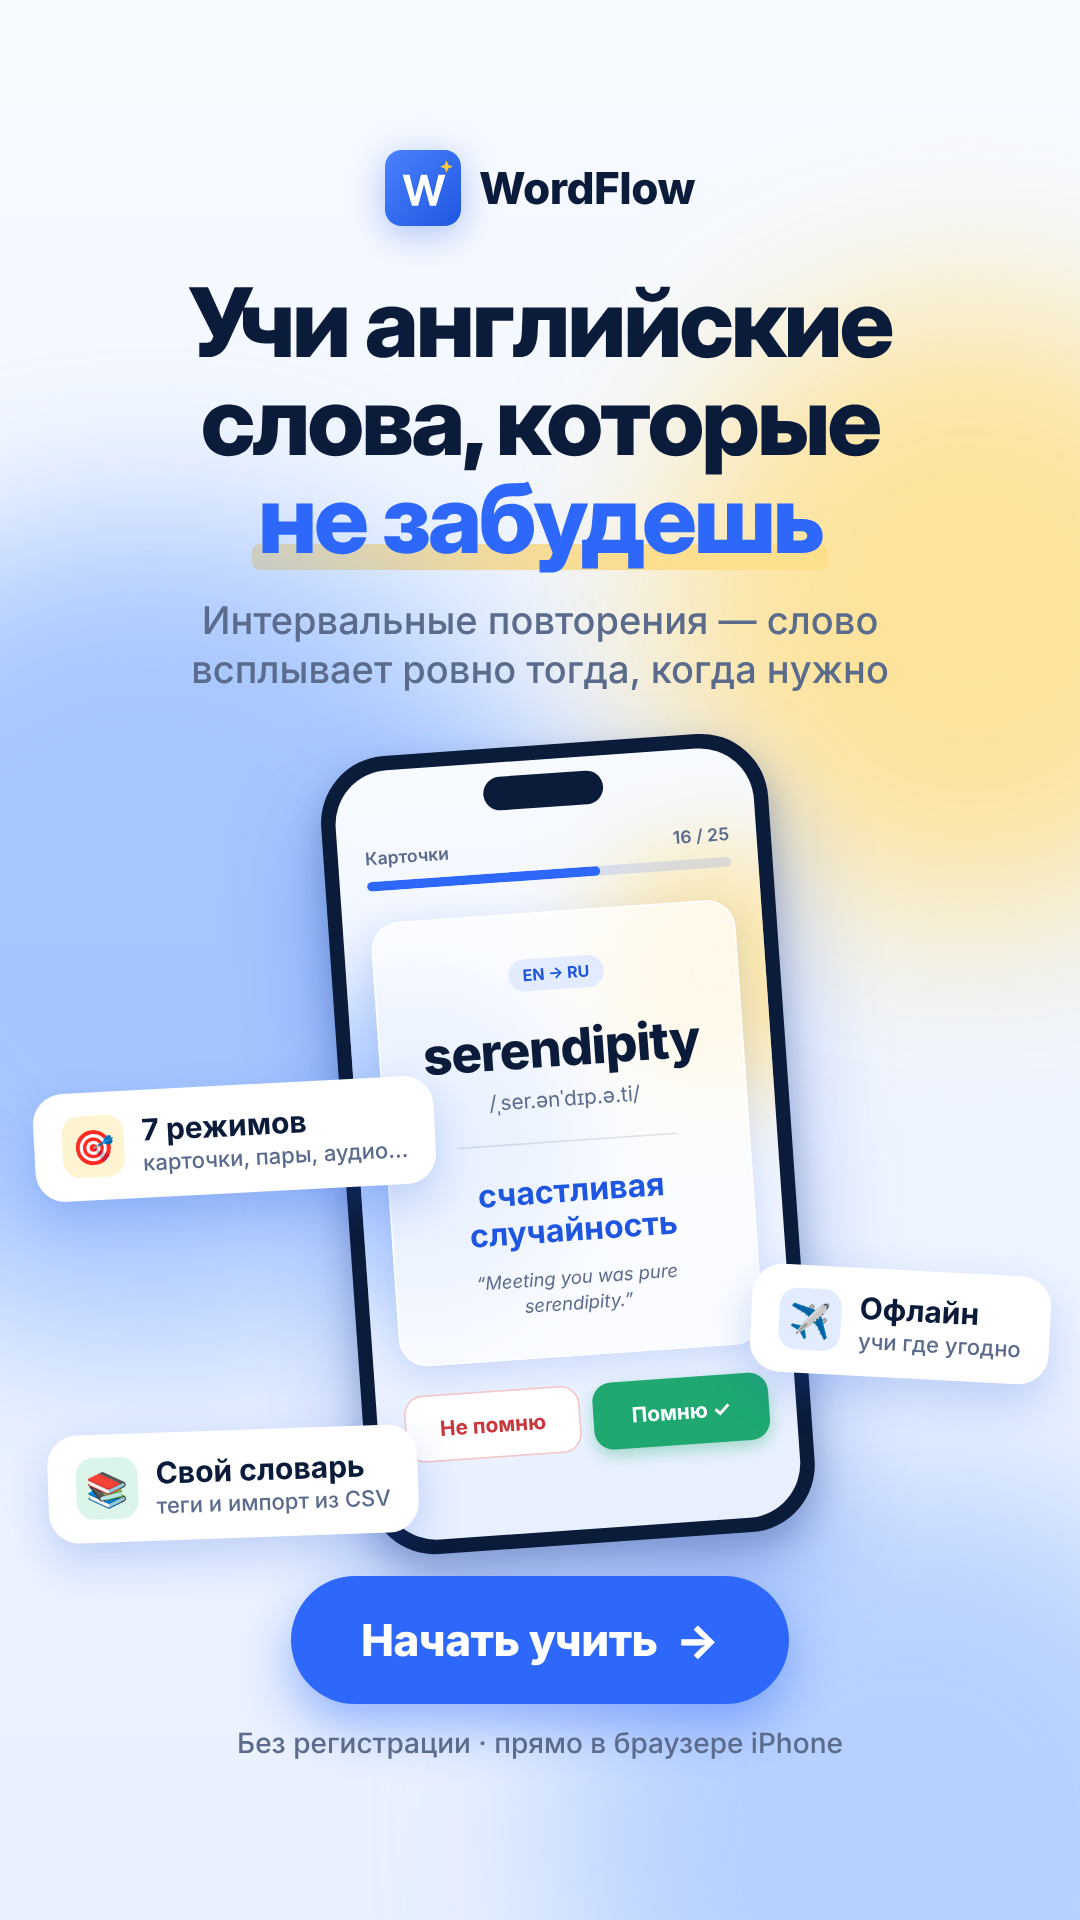
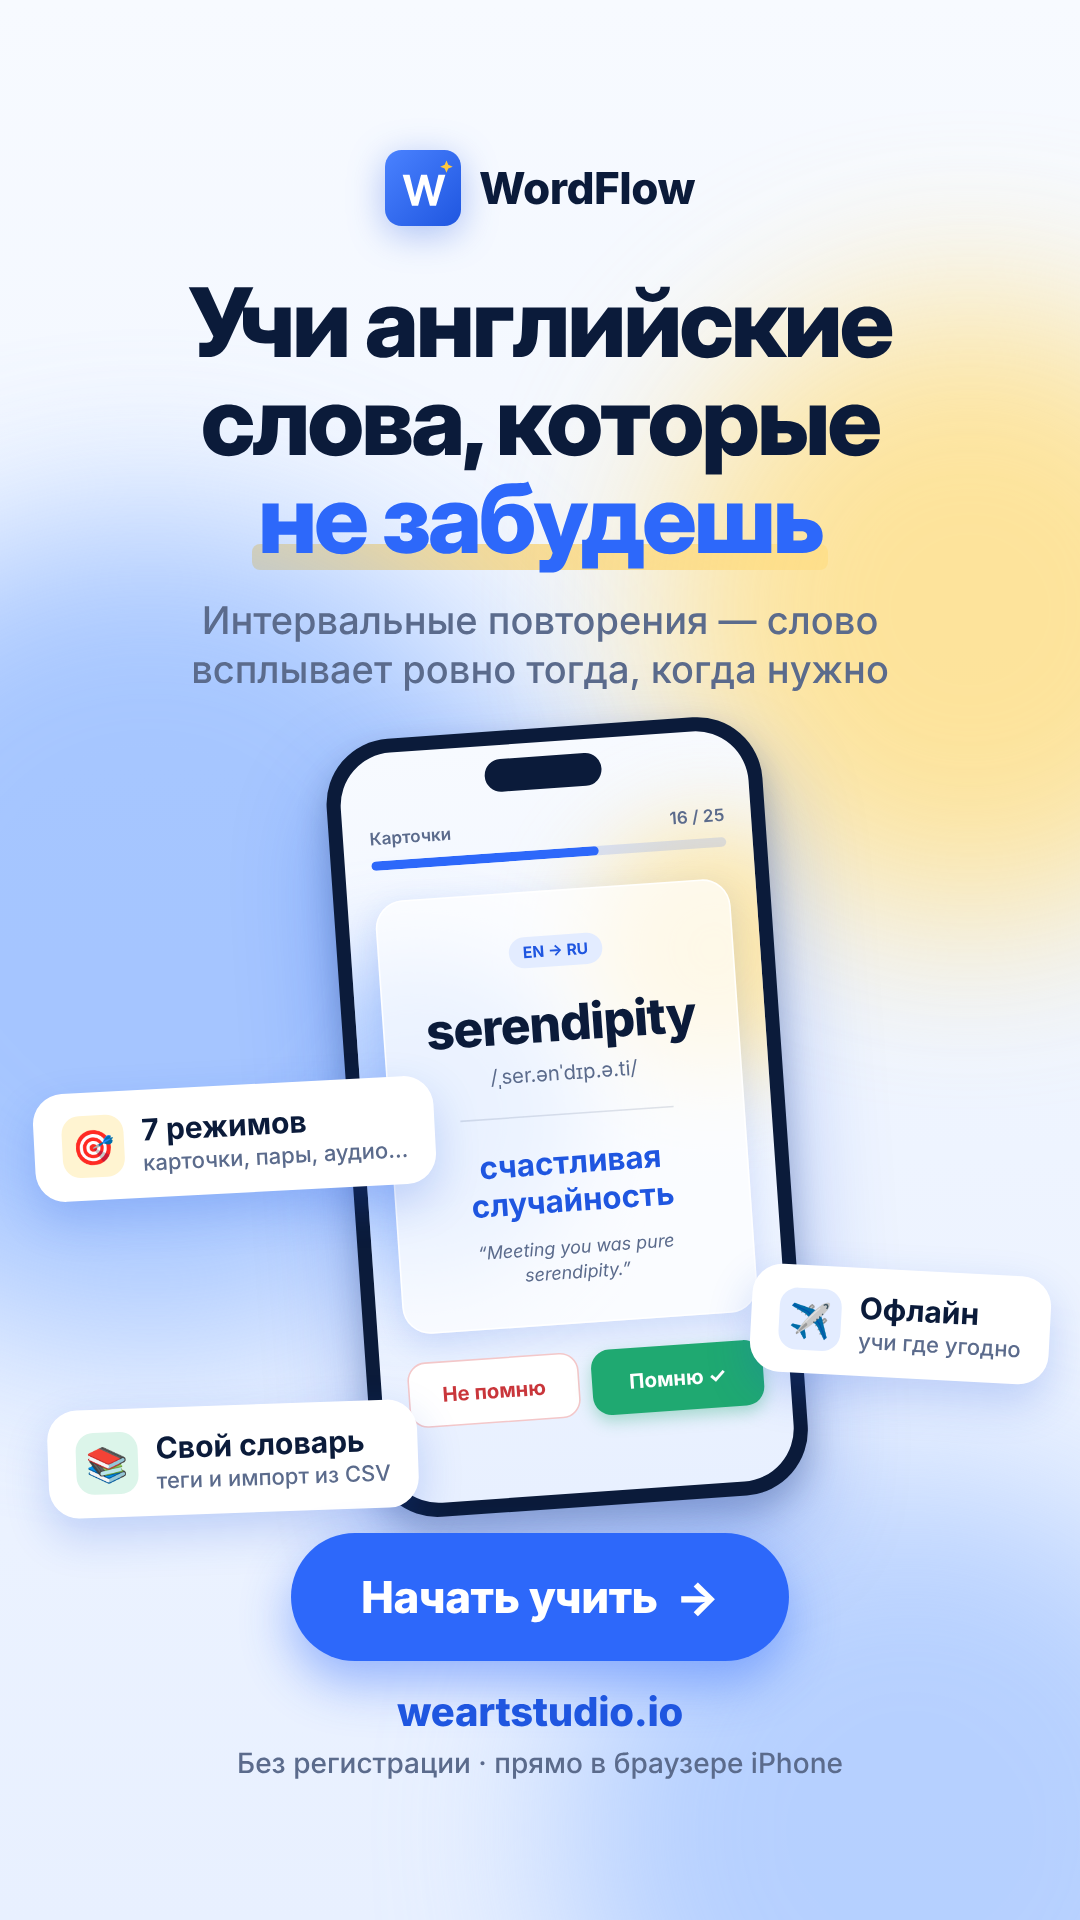
Creative: add weartstudio.io domain under CTA
Claude-Session: https://claude.ai/code/session_015SesBzp127TNMYaus39utj

Changed region(s): [[0.0306, 0.375, 0.7944, 0.9375]]

diff --git a/marketing/creative-9x16.html b/marketing/creative-9x16.html
@@ -27,7 +27,7 @@
   .sub{margin-top:28px;font-size:38px;line-height:1.3;color:var(--muted);font-weight:500}
 
   /* phone */
-  .phone{position:absolute;left:50%;top:745px;transform:translateX(-50%) rotate(-4deg) scale(.8);transform-origin:50% 0;
+  .phone{position:absolute;left:50%;top:728px;transform:translateX(-50%) rotate(-4deg) scale(.78);transform-origin:50% 0;
     width:560px;height:1000px;border-radius:84px;background:#0b1b3a;padding:18px;
     box-shadow:0 60px 120px rgba(31,86,224,.35),0 20px 40px rgba(11,27,58,.25)}
   .screen{width:100%;height:100%;border-radius:68px;overflow:hidden;position:relative;
@@ -62,15 +62,16 @@
   .bd1 .ic{background:var(--accent-100)}
   .bd2{top:1270px;right:30px;transform:rotate(3deg)}
   .bd2 .ic{background:var(--primary-100)}
-  .bd3{top:1430px;left:48px;transform:rotate(-2deg)}
+  .bd3{top:1405px;left:48px;transform:rotate(-2deg)}
   .bd3 .ic{background:#dcf5ea}
 
-  .cta-wrap{position:absolute;left:0;right:0;bottom:160px;text-align:center;z-index:6}
+  .cta-wrap{position:absolute;left:0;right:0;bottom:140px;text-align:center;z-index:6}
   .cta{display:inline-flex;align-items:center;gap:18px;background:var(--primary);color:#fff;
     font-size:44px;font-weight:800;padding:36px 70px;border-radius:999px;
     box-shadow:0 22px 50px rgba(45,104,250,.45);letter-spacing:-.5px}
   .cta span{font-size:46px}
-  .note{margin-top:22px;font-size:28px;color:var(--muted);font-weight:500}
+  .url{margin-top:26px;font-size:40px;font-weight:800;color:var(--primary-600);letter-spacing:-.3px}
+  .note{margin-top:10px;font-size:28px;color:var(--muted);font-weight:500}
 </style>
 </head>
 <body>
@@ -108,6 +109,7 @@
 
   <div class="cta-wrap">
     <div class="cta">Начать учить <span>→</span></div>
+    <div class="url">weartstudio.io</div>
     <div class="note">Без регистрации · прямо в браузере iPhone</div>
   </div>
 </body>
